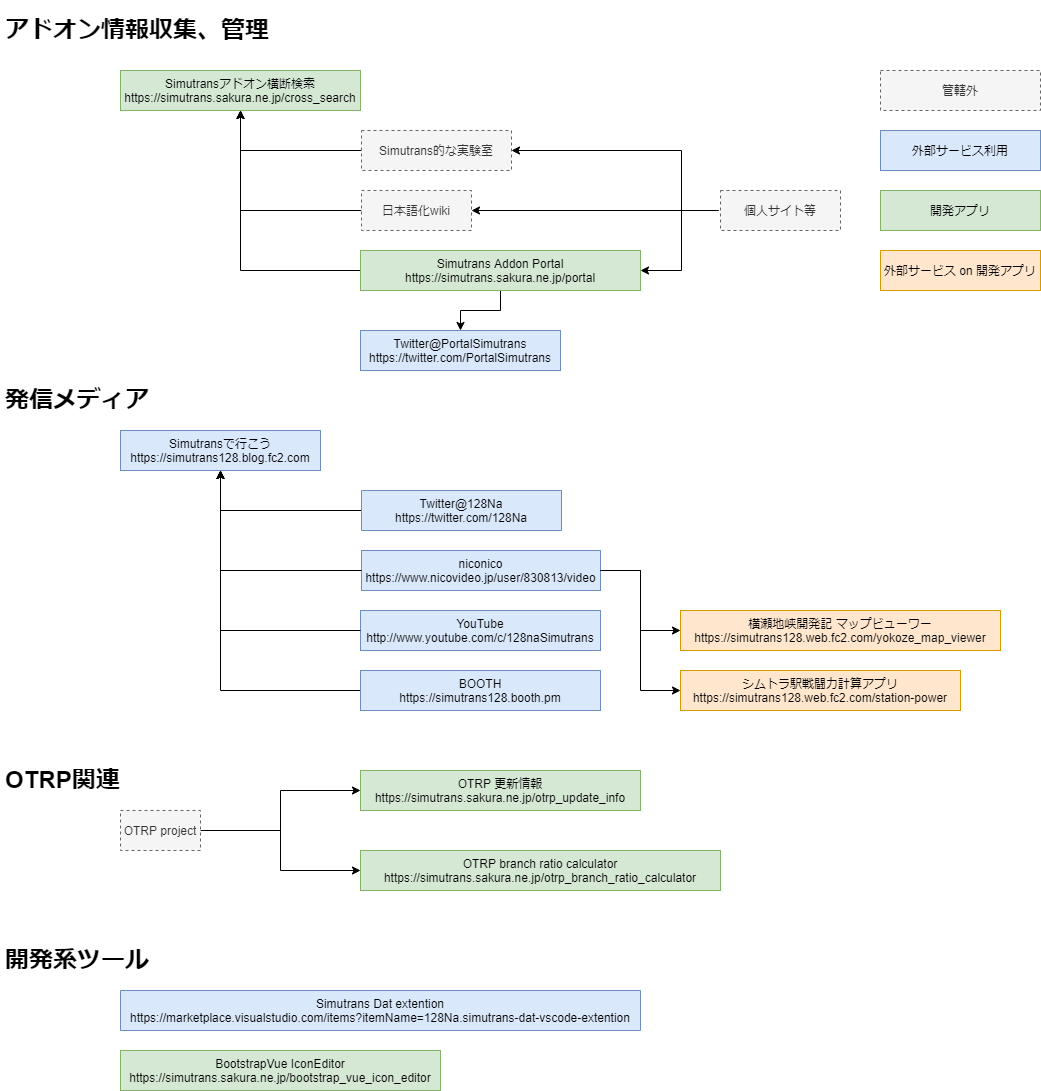
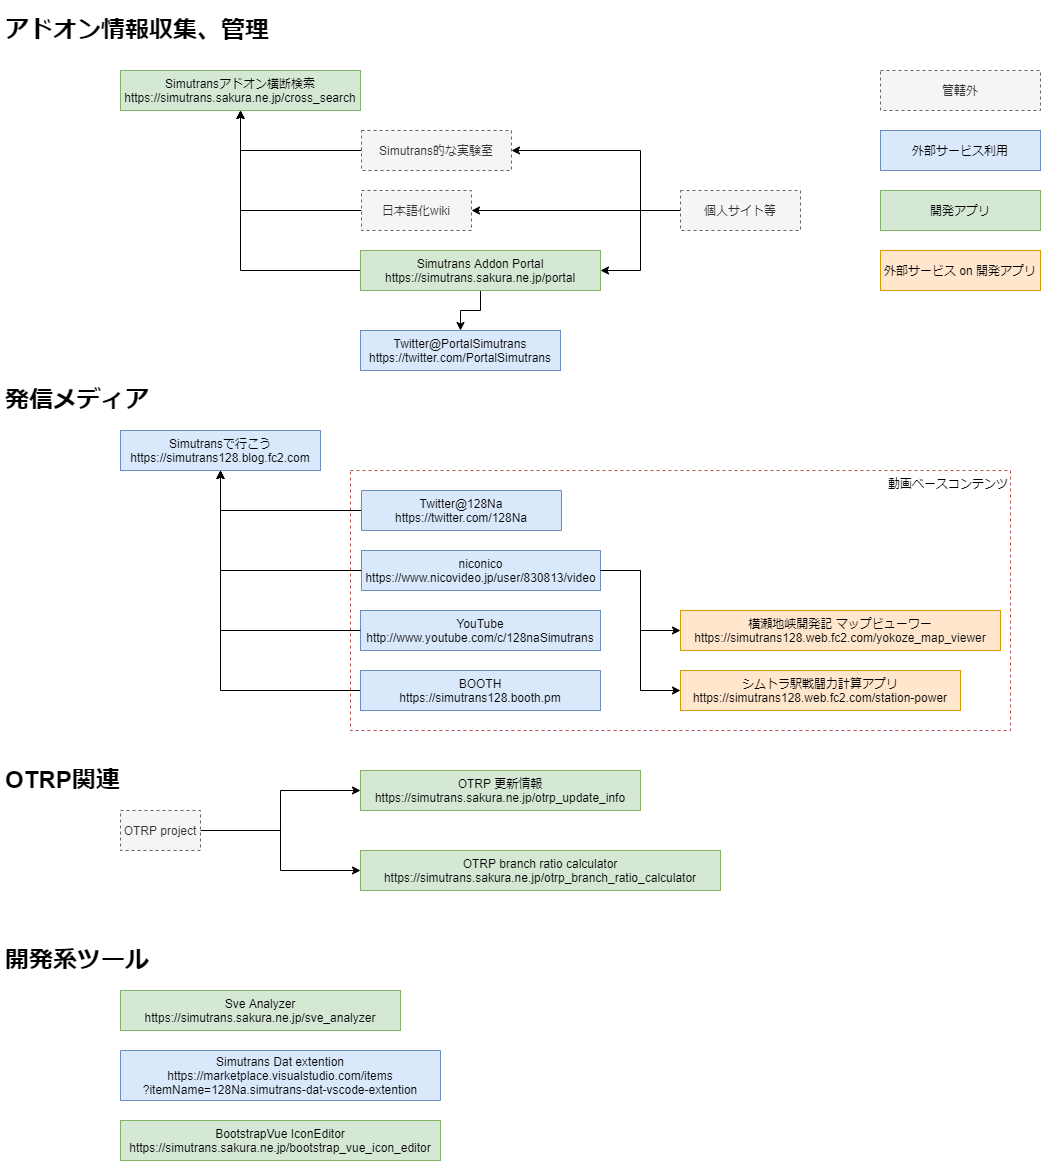
sve_analyzer を追加、githubリンクを追加

diff --git a/README.md b/README.md
@@ -6,39 +6,59 @@
 
 ## アドオン情報収集、管理
 ### Simutransアドオン横断検索
-https://simutrans.sakura.ne.jp/cross_search/
+- https://simutrans.sakura.ne.jp/cross_search/
+- https://github.com/128na/SimutransCrossSearch
+
 ### Simutrans Addon Portal
-https://simutrans.sakura.ne.jp/portal/
+- https://simutrans.sakura.ne.jp/portal/
+- https://github.com/128na/simutrans-portal
+
 ### Twitter@PortalSimutrans
-https://twitter.com/PortalSimutrans
+- https://twitter.com/PortalSimutrans
 
 
 ## 発信メディア
 ### Simutransで行こう
-https://simutrans128.blog.fc2.com/
+- https://simutrans128.blog.fc2.com/
+
 ### Twitter@128Na
-https://twitter.com/128Na
+- https://twitter.com/128Na
+
 ### niconico
-https://www.nicovideo.jp/user/830813/video
+- https://www.nicovideo.jp/user/830813/video
+
 ### YouTube
-http://www.youtube.com/c/128naSimutrans
+- https://www.youtube.com/c/128naSimutrans
+
 ### BOOTH
-https://simutrans128.booth.pm/
+- https://simutrans128.booth.pm/
+
 ### 横瀬地峡開発記 マップビューワー
-https://simutrans128.web.fc2.com/yokoze_map_viewer/
+- https://simutrans128.web.fc2.com/yokoze_map_viewer
+- https://github.com/128na/ykz-map-viewer
+
 ### シムトラ駅戦闘力計算アプリ
-https://simutrans128.web.fc2.com/station-power/
+- https://simutrans128.web.fc2.com/station-power
 
 
 ## OTRP関連
 ### OTRP 更新情報
-https://simutrans.sakura.ne.jp/otrp_update_info/
-### OTRP branch ratio calculator
-https://simutrans.sakura.ne.jp/otrp_branch_ratio_calculator/
+- https://simutrans.sakura.ne.jp/otrp_update_info
+- https://github.com/128na/otrp_update_info
 
+### OTRP branch ratio calculator
+- https://simutrans.sakura.ne.jp/otrp_branch_ratio_calculator
+- https://github.com/128na/otrp_branch_ratio_calculator
 
 ## 開発系ツール
+### Sve Analyzer
+- https://simutrans.sakura.ne.jp/sve_analyzer
+- https://github.com/128na/sve_analyzer
+
 ### Simutrans Dat extention
-https://marketplace.visualstudio.com/items?itemName=128Na.simutrans-dat-vscode-extention
+- https://marketplace.visualstudio.com/items?itemName=128Na.simutrans-dat-vscode-extention
+- https://github.com/128na/simutrans-vscode-extention
+
 ###  BootstrapVue IconEditor
-https://simutrans.sakura.ne.jp/bootstrap_vue_icon_editor/
+- https://simutrans.sakura.ne.jp/bootstrap_vue_icon_editor
+- https://github.com/128na/BootstrapVue-IconEditor
